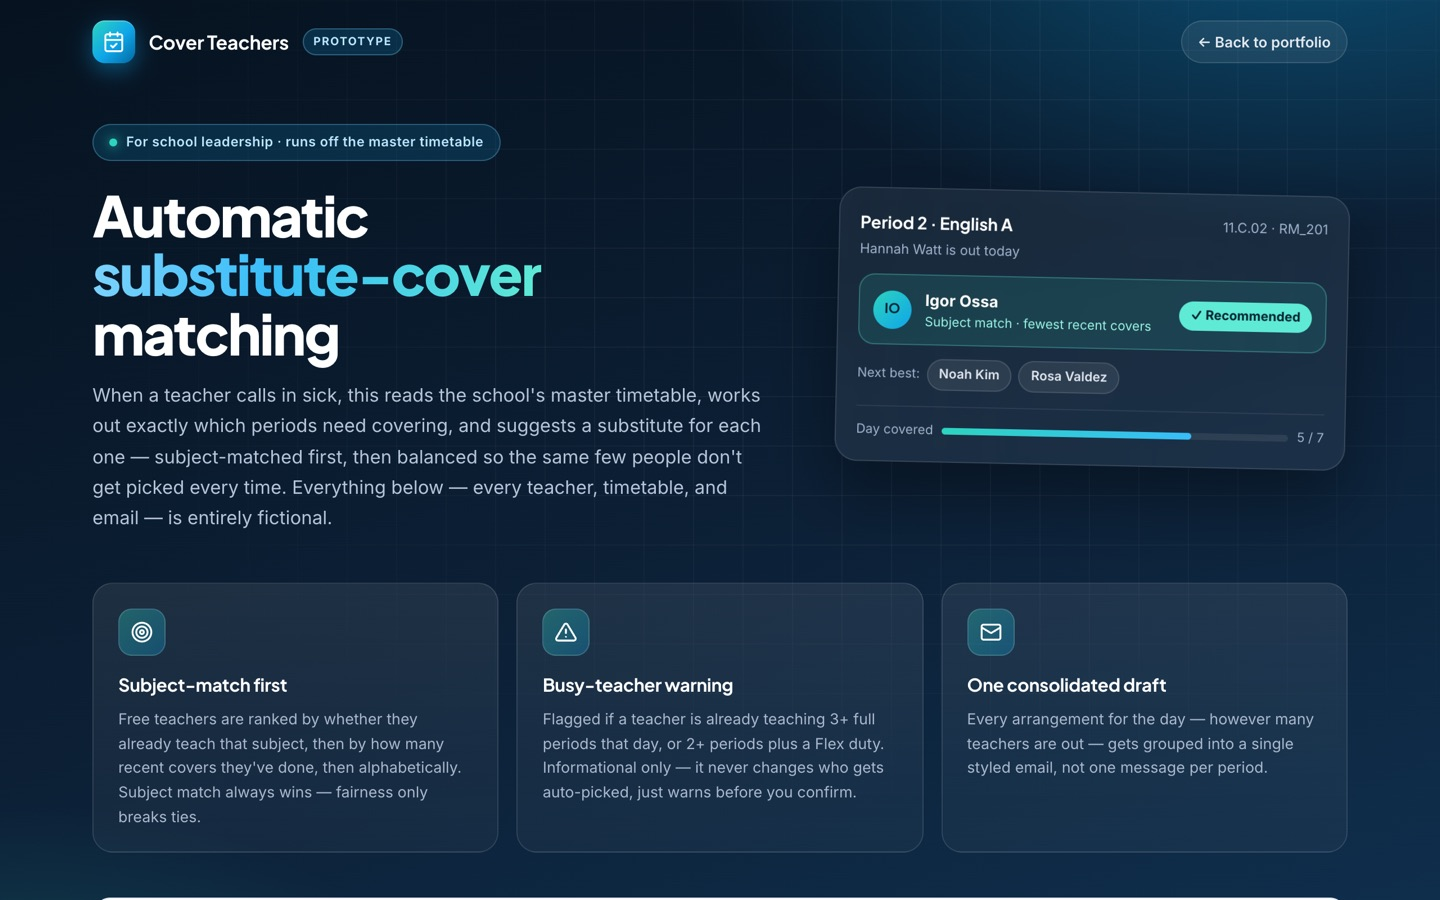
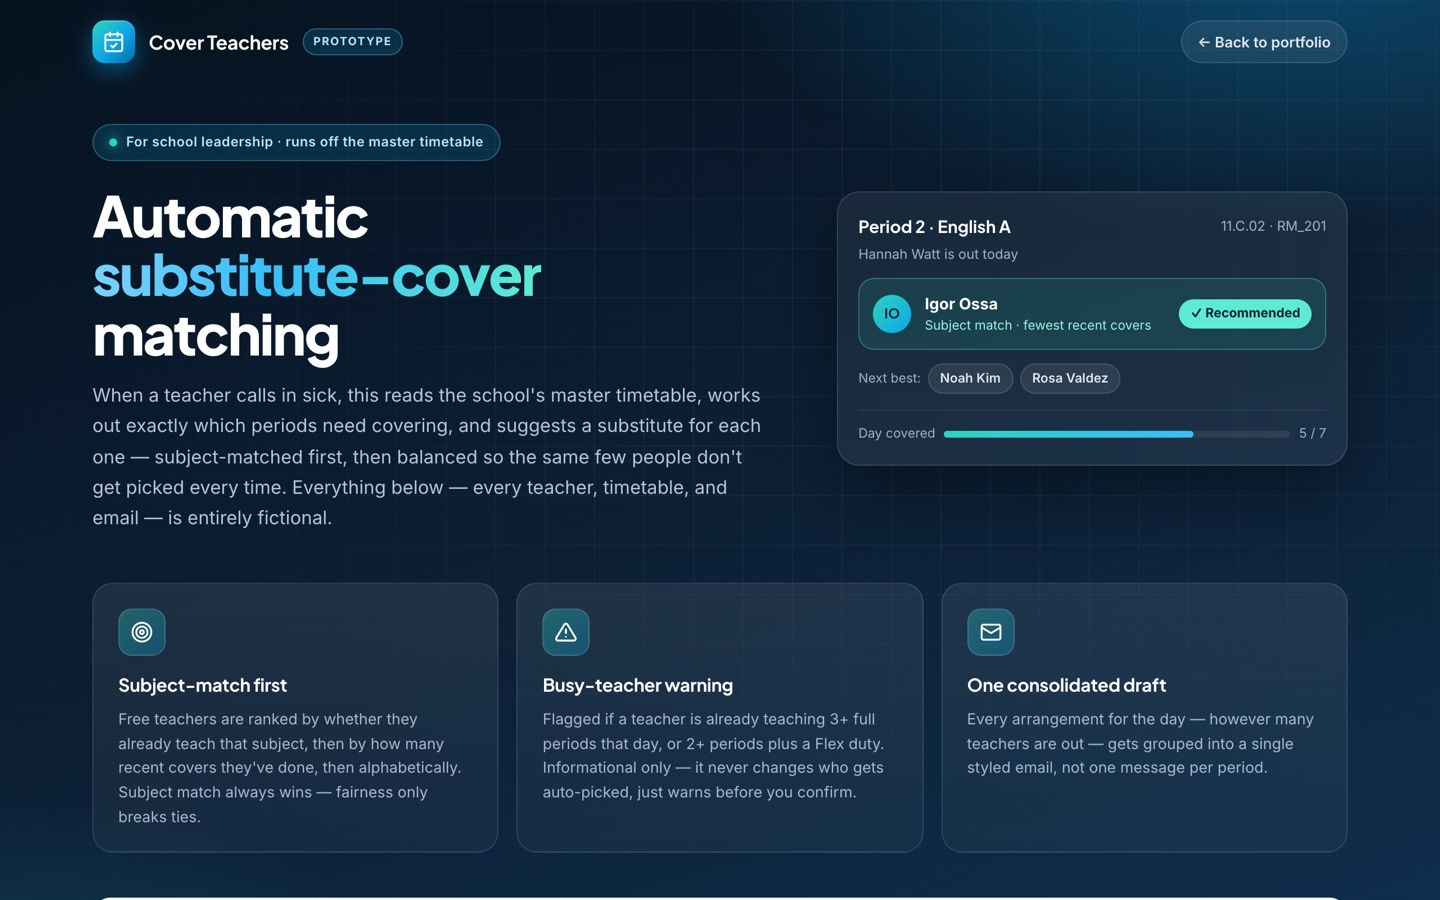
Straighten the Cover Teachers hero preview card

diff --git a/cover-teachers/index.html b/cover-teachers/index.html
@@ -160,7 +160,6 @@ button { font-family: inherit; }
 .mock {
   border-radius: 20px; padding: 18px; background: rgba(255,255,255,0.06); border: 1px solid rgba(255,255,255,0.12);
   -webkit-backdrop-filter: blur(10px); backdrop-filter: blur(10px); box-shadow: 0 30px 60px rgba(0,0,0,0.35);
-  transform: rotate(1.2deg);
 }
 .mock-head { display: flex; justify-content: space-between; align-items: center; font-size: 12px; color: #9fb3cc; margin-bottom: 12px; }
 .mock-head strong { color: #fff; font-family: var(--display); font-size: 15px; }
@@ -587,13 +586,10 @@ footer #finalize-btn { min-width: 260px; padding: 14px 22px; font-size: 15px; bo
 .rise { animation: rise 0.7s cubic-bezier(0.2, 0.8, 0.2, 1) both; }
 .d1 { animation-delay: 0.05s; } .d2 { animation-delay: 0.12s; } .d3 { animation-delay: 0.2s; } .d4 { animation-delay: 0.3s; }
 @keyframes rise { from { opacity: 0; transform: translateY(14px); } to { opacity: 1; transform: none; } }
-.mock.rise { animation-name: riseTilt; }
-@keyframes riseTilt { from { opacity: 0; transform: translateY(18px) rotate(1.2deg); } to { opacity: 1; transform: rotate(1.2deg); } }
-@media (prefers-reduced-motion: reduce) { .rise, .mock.rise { animation: none; } .how-card { transition: none; } }
+@media (prefers-reduced-motion: reduce) { .rise { animation: none; } .how-card { transition: none; } }
 @media (max-width: 980px) {
   .hero-grid { grid-template-columns: 1fr; gap: 28px; }
   .mock { max-width: 460px; transform: none; }
-  @keyframes riseTilt { from { opacity: 0; transform: translateY(18px); } to { opacity: 1; transform: none; } }
   .how { grid-template-columns: 1fr; }
   .hero h2 { font-size: 40px; }
 }
